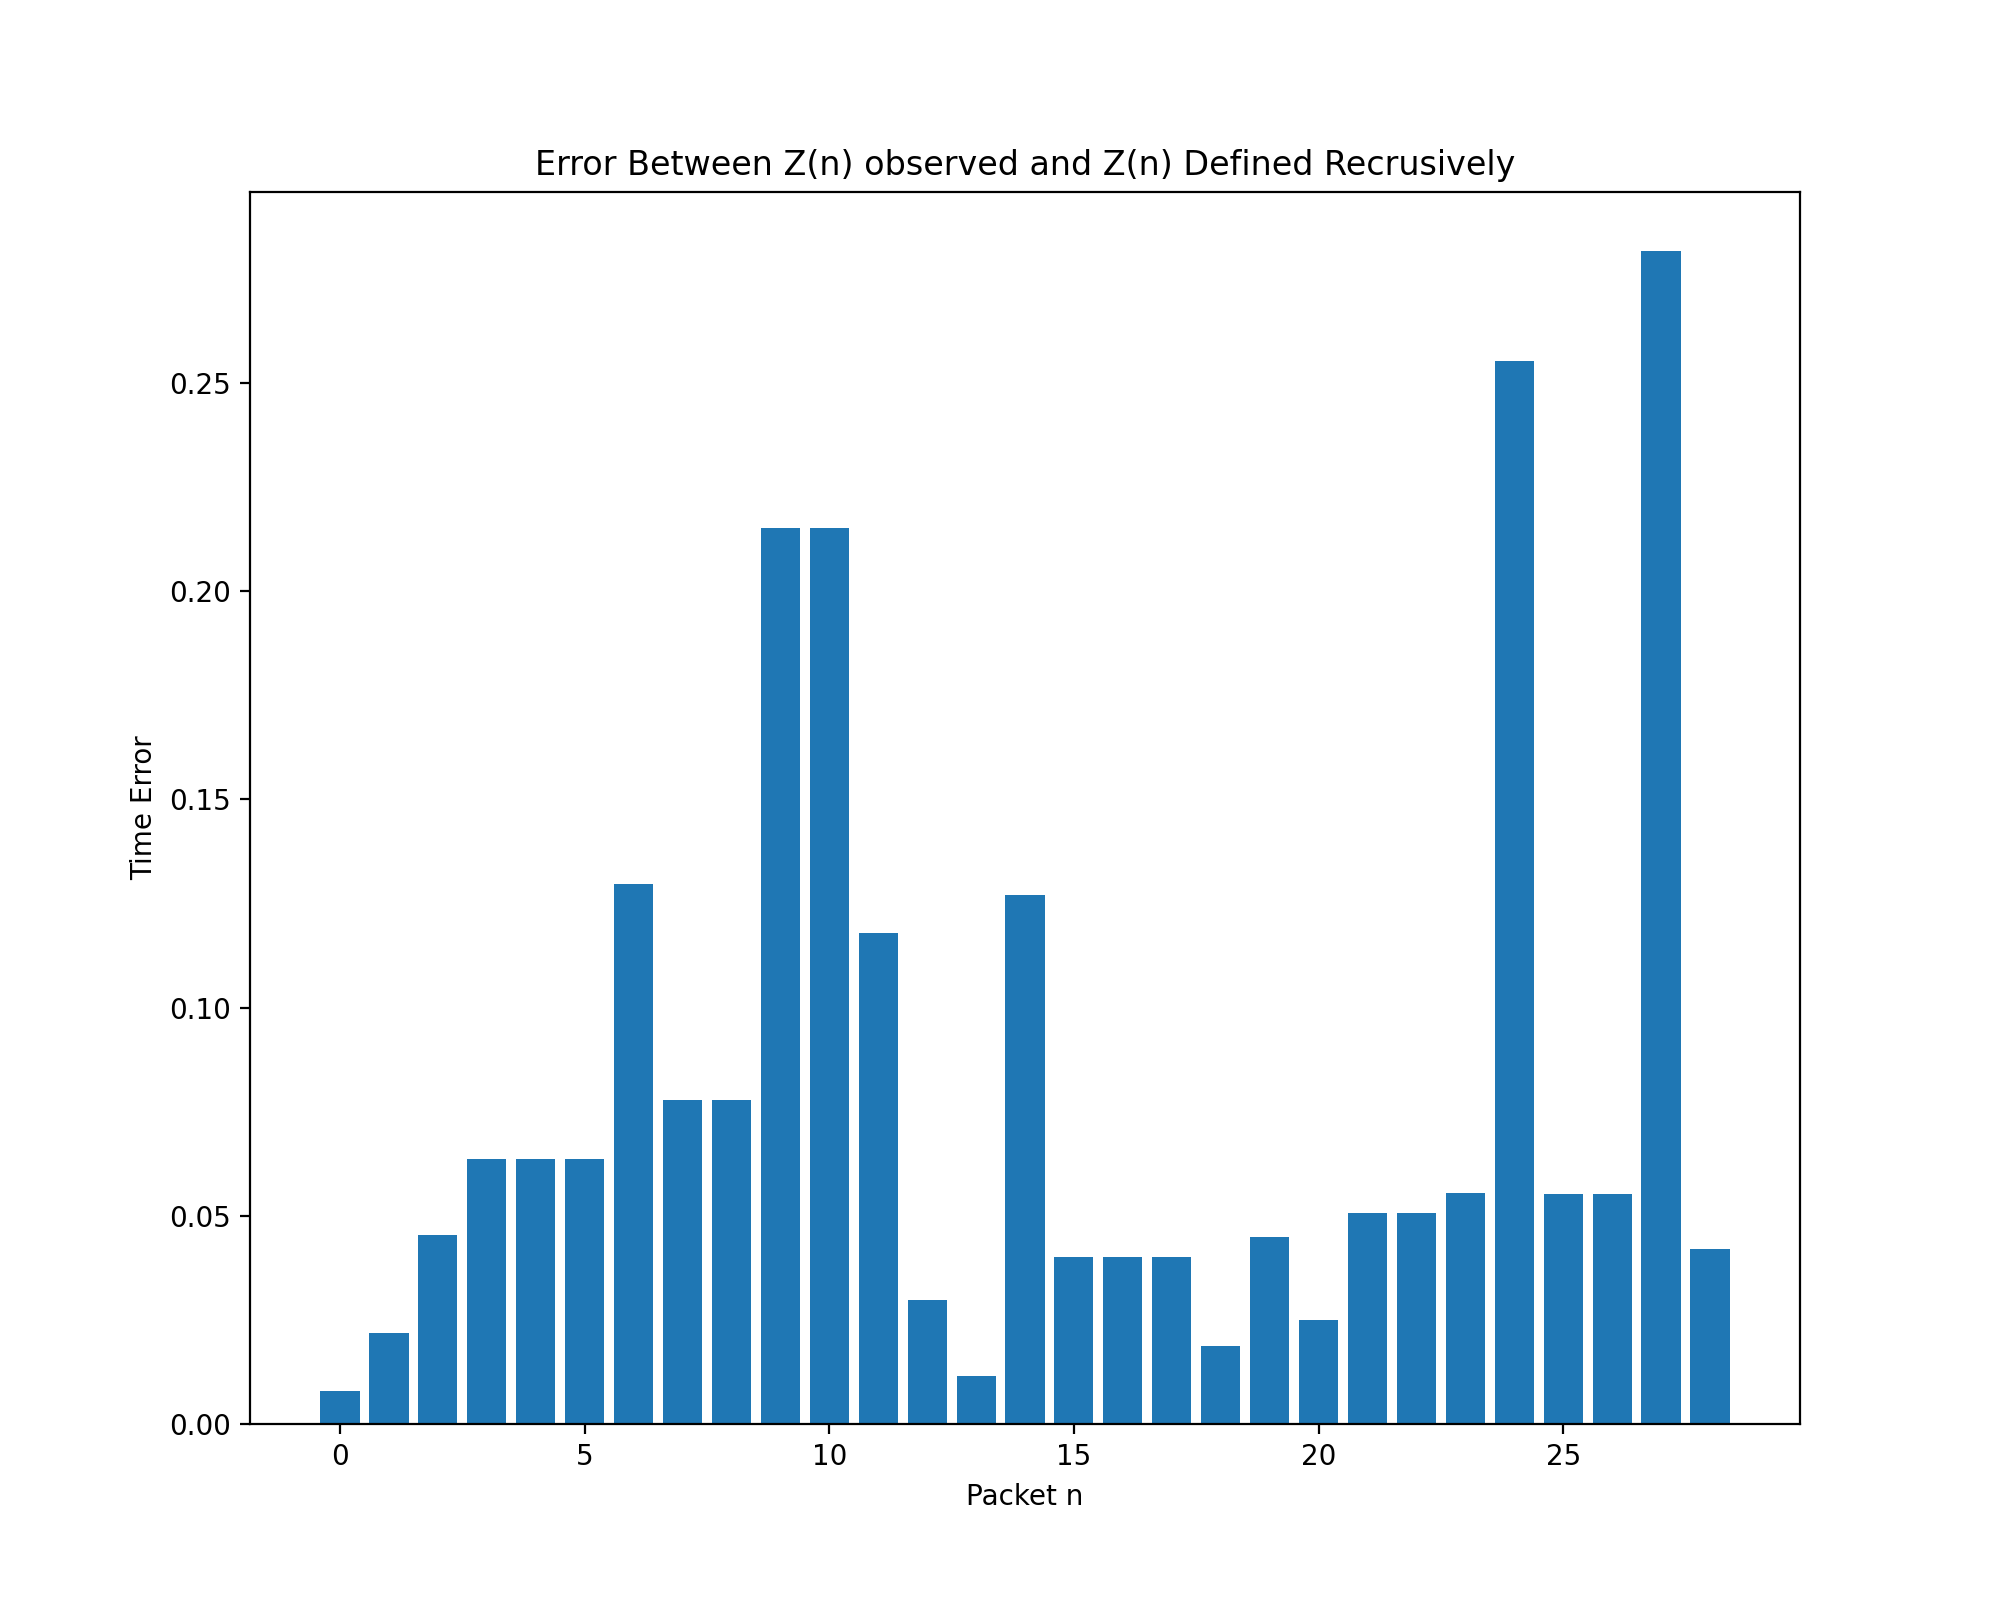
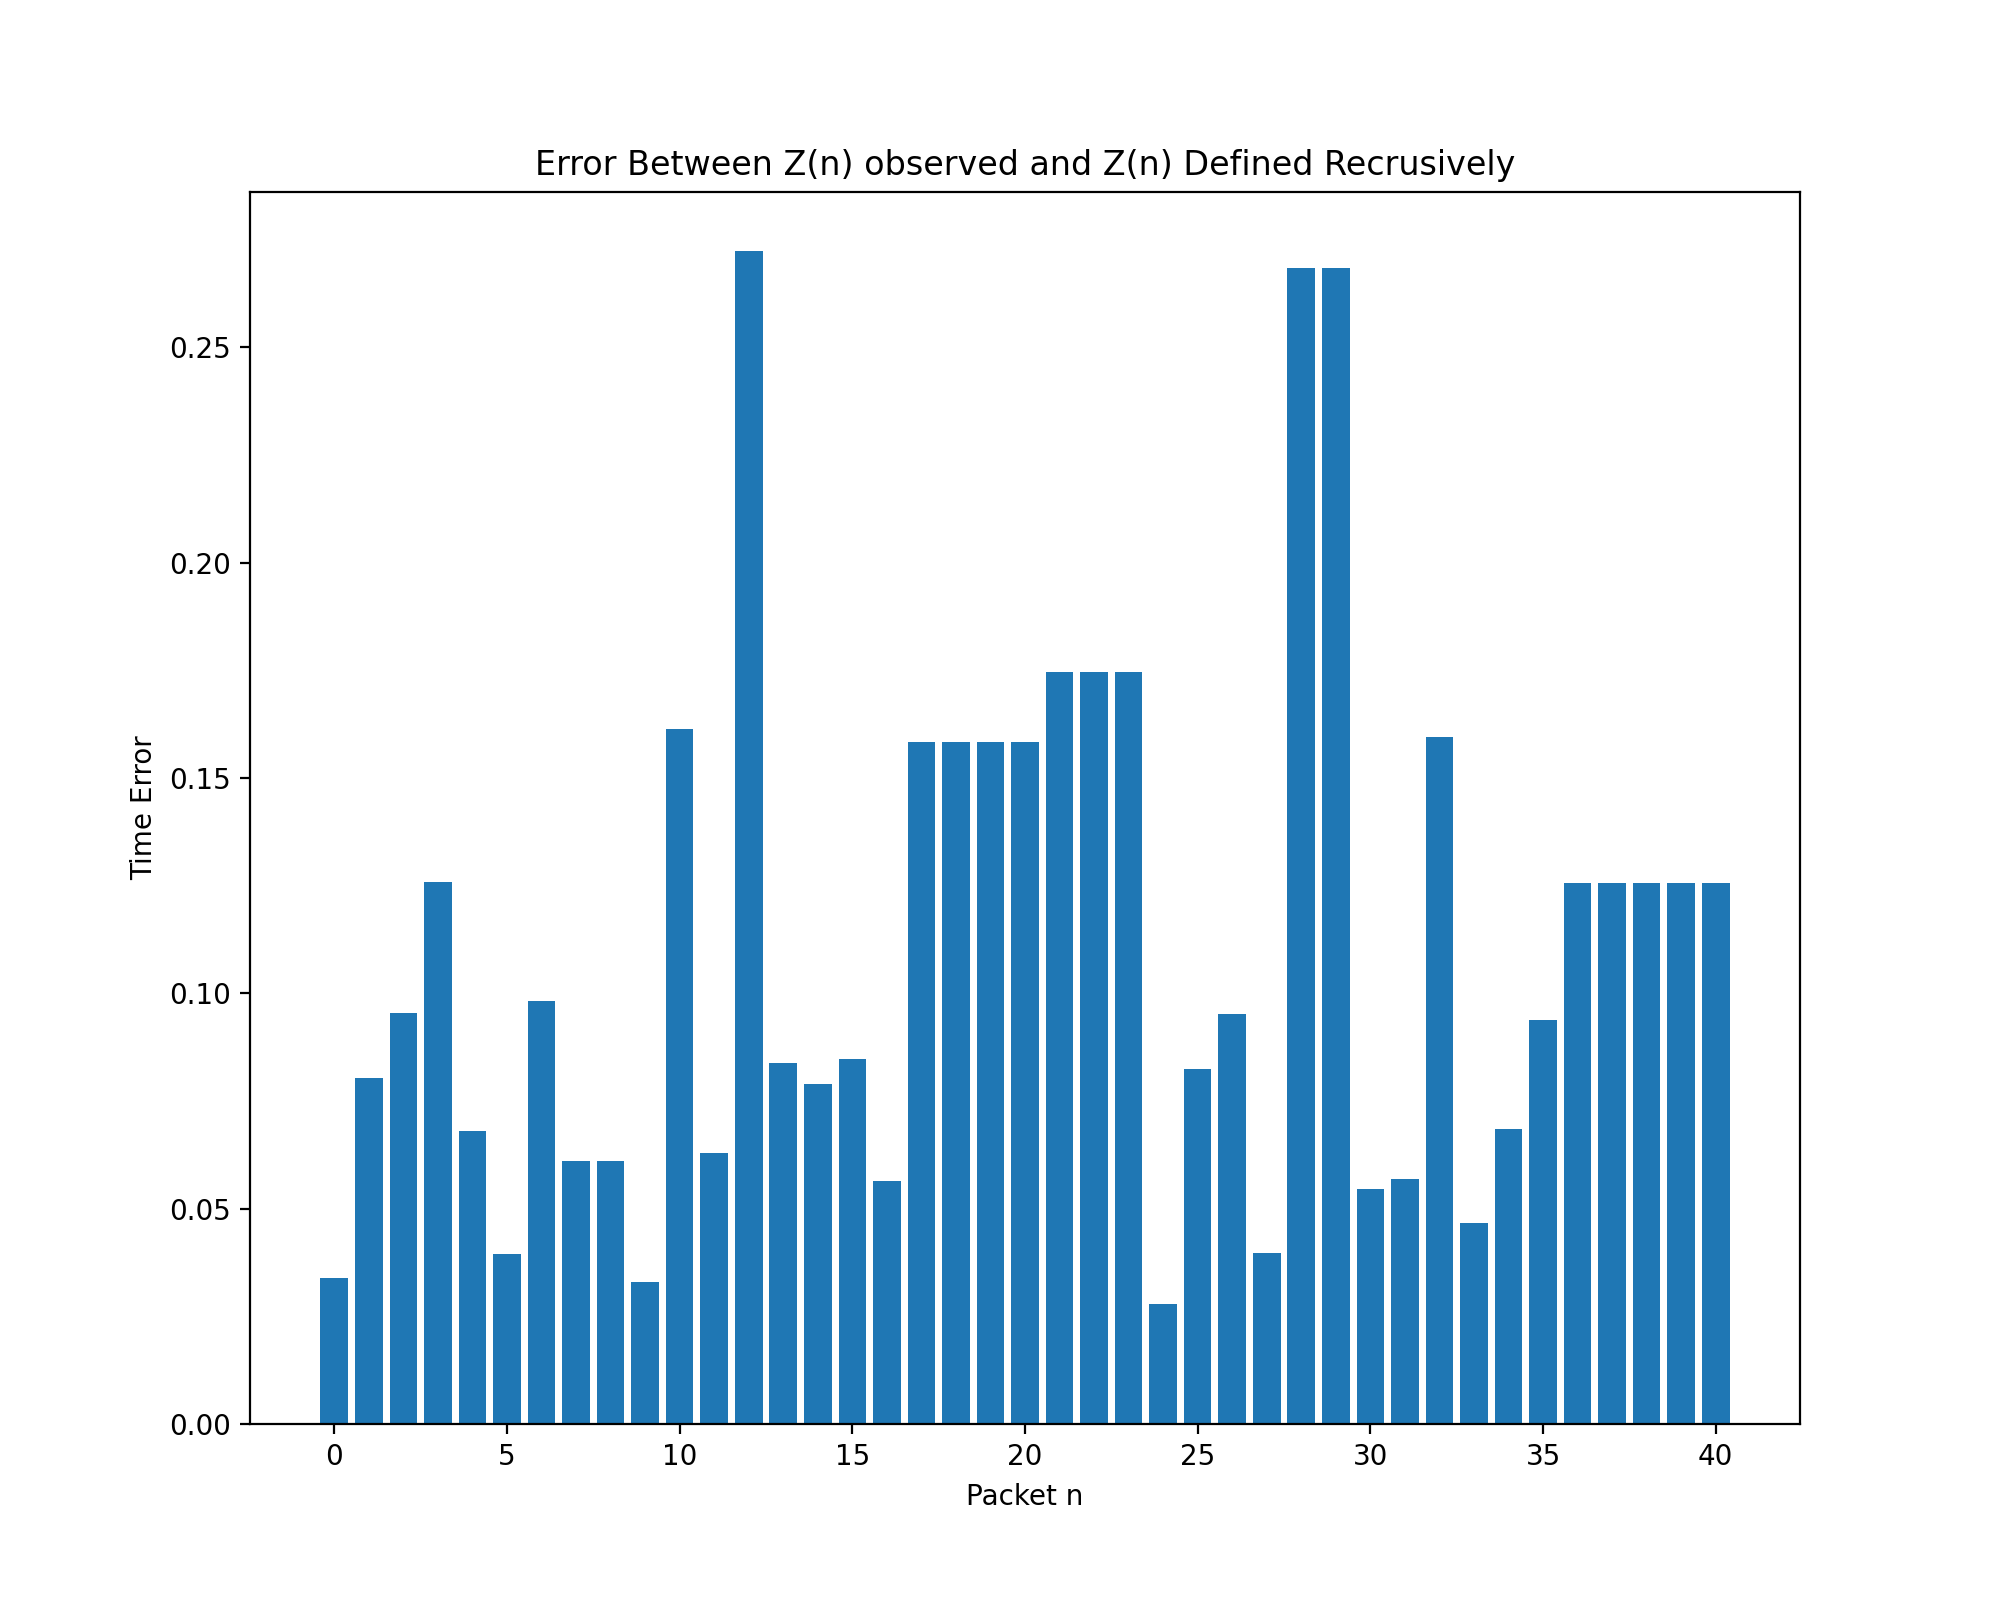
CLEAN

diff --git a/Max-Plus model/main.py b/Max-Plus model/main.py
@@ -12,6 +12,7 @@ LINK_BANDWIDTH = 10000
 SWITCH_BANDWIDTH = 5000
 SWITCH_QSIZE = 2500 # in bytes
 LAMBDA = .02 # e^(-0.3)x
+SIM_TIME = 20 # NUMNBER OF EPOCHS
 
 def constArrival():  # Constant arrival distribution for generator 1
     return int(poisson.rvs(MU)) # using Poisson interarrival time to model bursty traffic
@@ -87,7 +88,7 @@ s2 = SwitchPort(2, env, rate=SWITCH_BANDWIDTH, qlimit=SWITCH_QSIZE)
 pg.out = s1
 s1.out = s2
 s2.out = ps
-env.run(until=20)
+env.run(until=SIM_TIME)
 
 print("recieved: {}, s1 dropped {}, s2 dropped {}, sent {}".format(ps.packets_rec, s1.packets_drop, s2.packets_drop, pg.packets_sent))
 
@@ -137,6 +138,9 @@ for n in range(len(error)):
     final.append(tmp)
 
 print(len(final))
+print("Maximum: ", max(final))
+print("Minimum: ", min(final))
+print("average: ", sum(final)/len(final))
 plt.figure(figsize=(10,8))
 plt.bar(range(len(final)), final)
 ax = plt.subplot()
